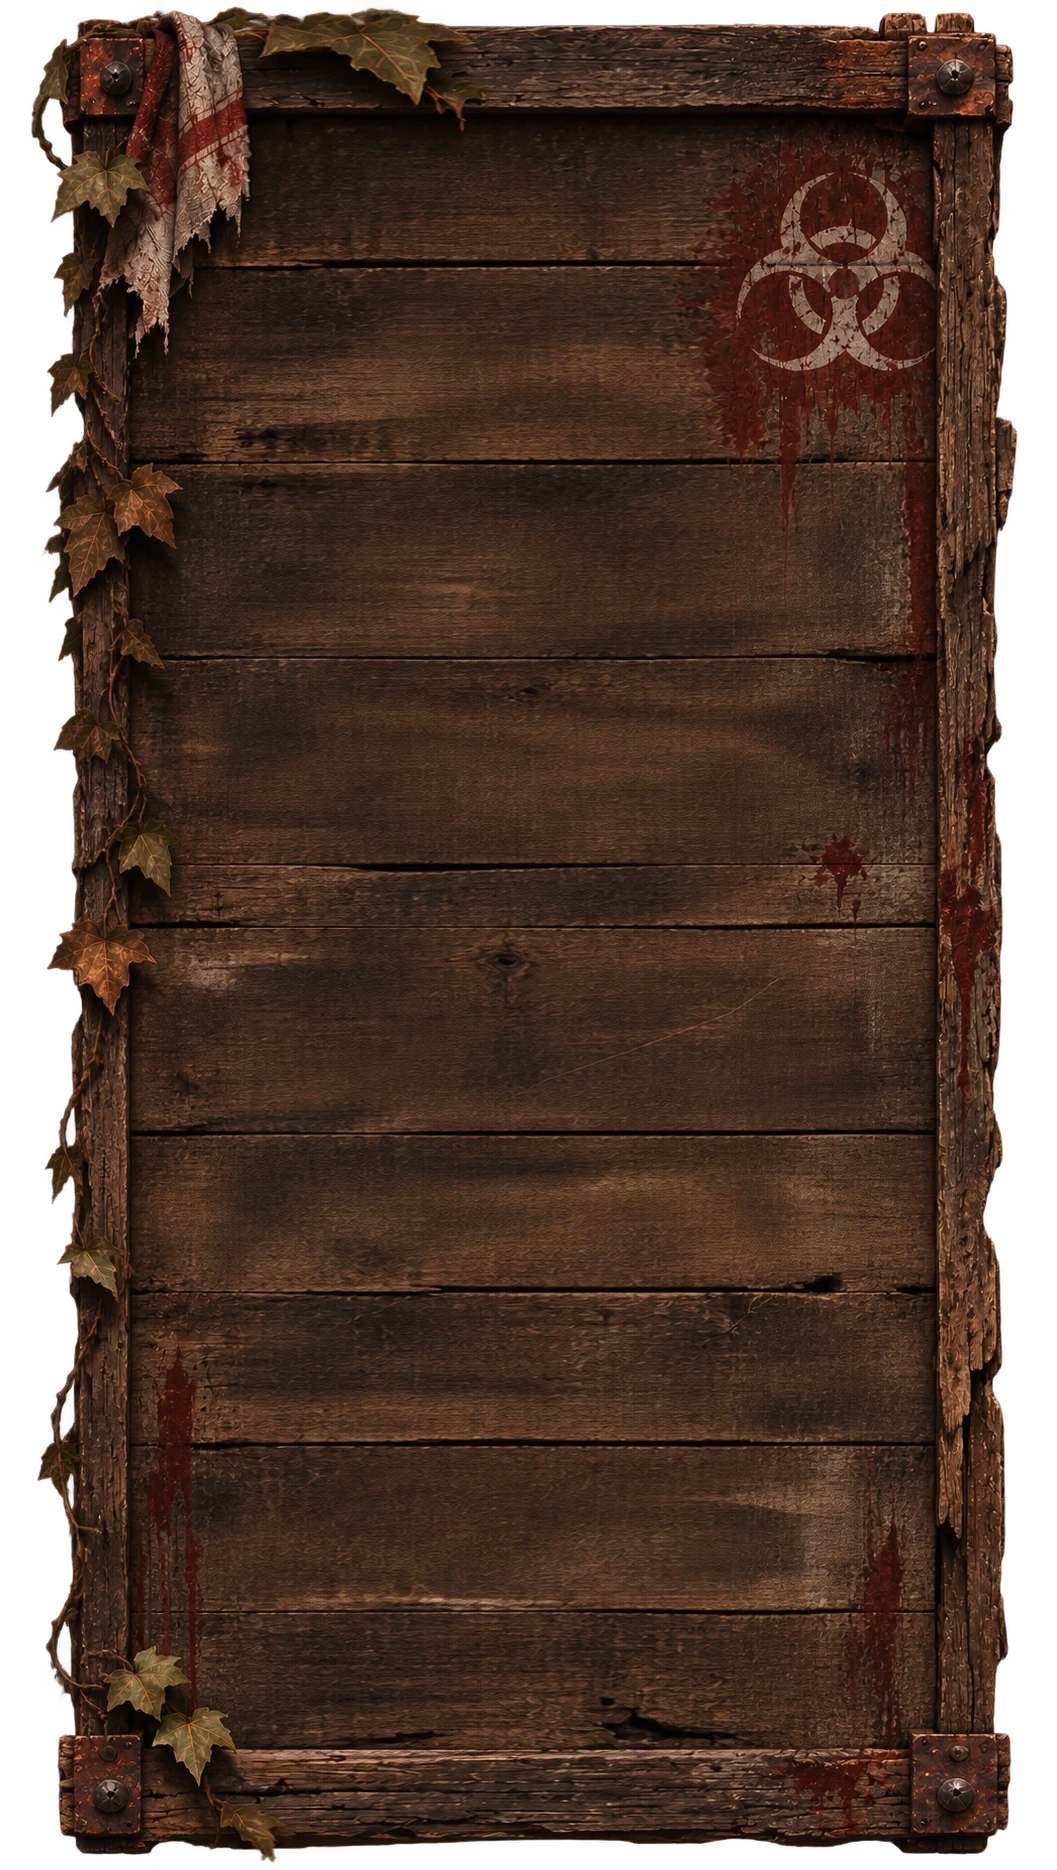
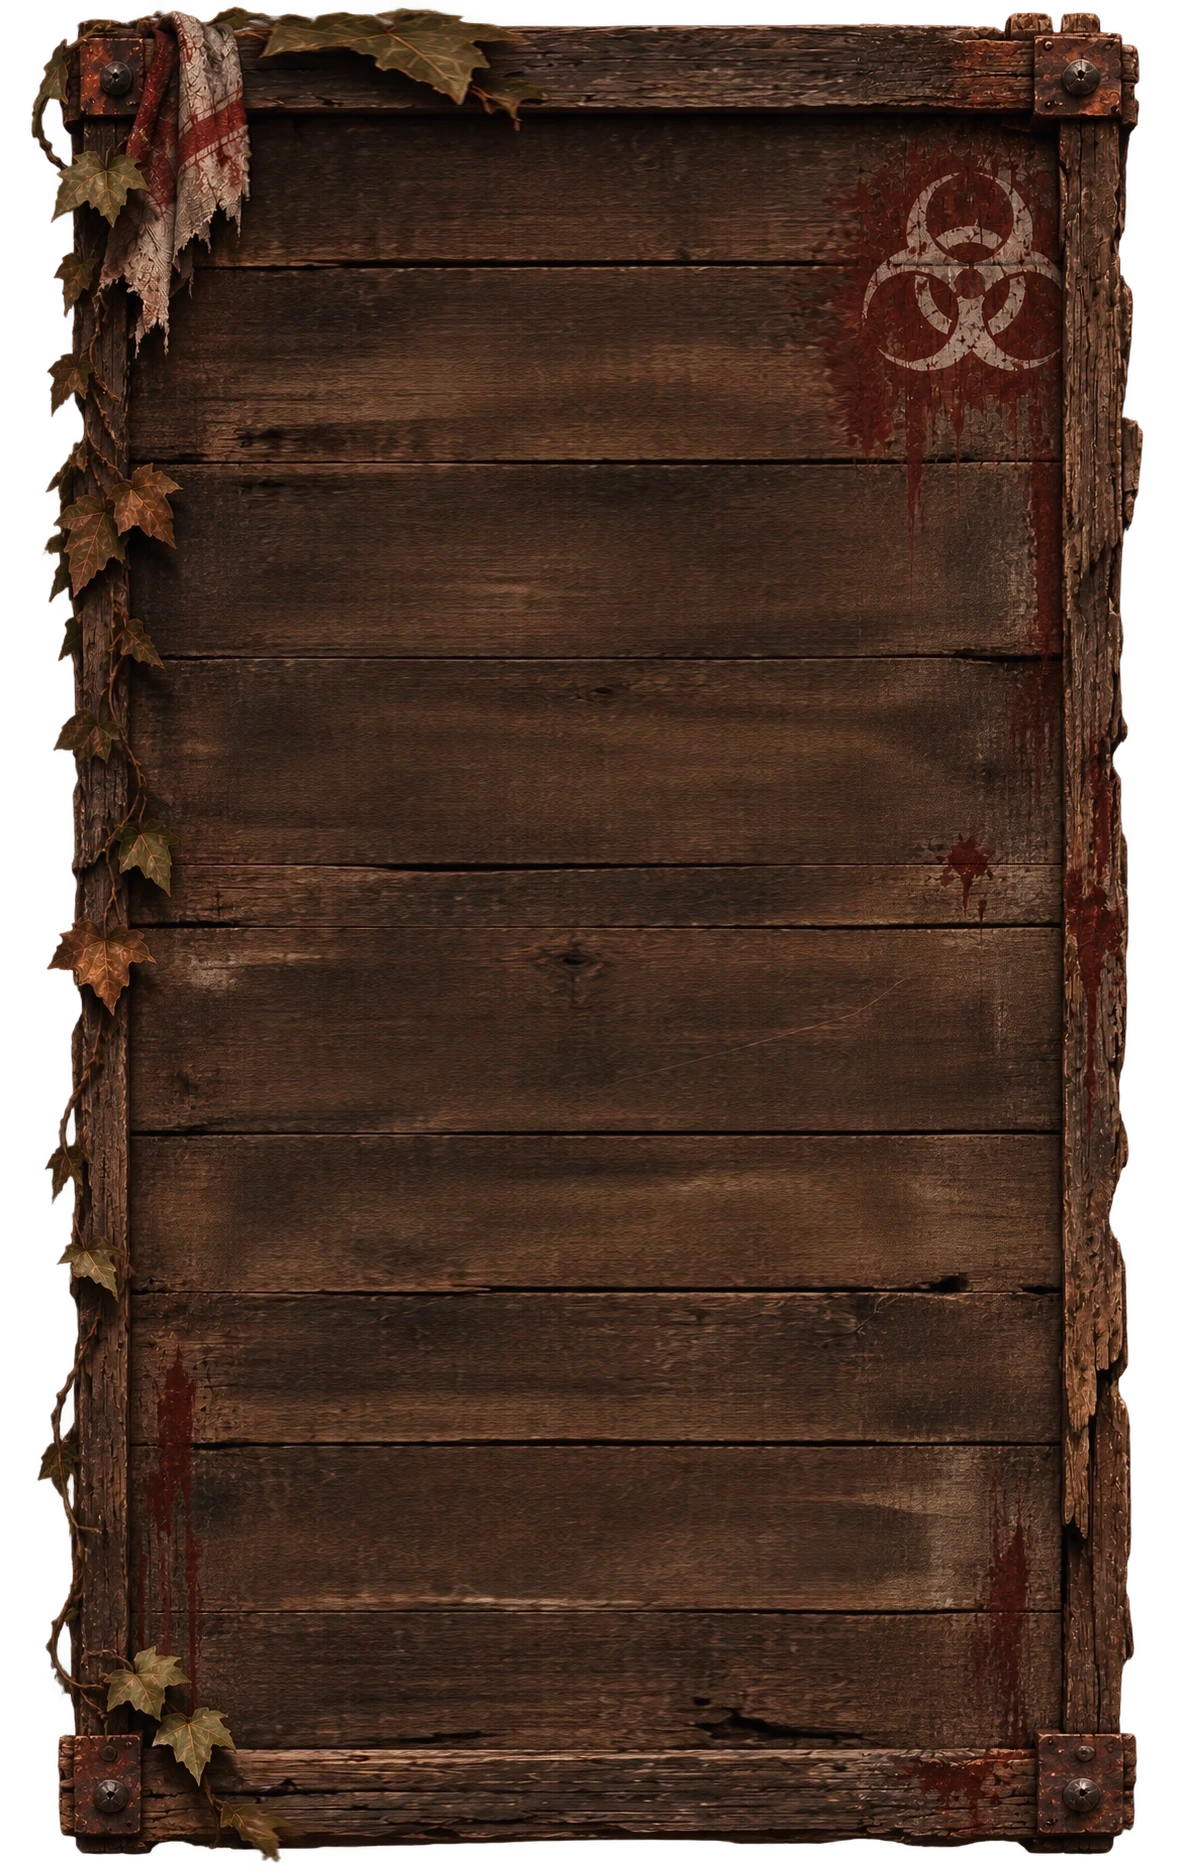
Survival UI v53: widen Hazard Dossier wood interior and gently expand scene-safe left rail

diff --git a/css/survivor-board.css b/css/survivor-board.css
@@ -1,4 +1,4 @@
-/* Survival UI v52 — physically mounted photos on the wide Hazard Dossier.
+/* Survival UI v53 — extended wooden surface, with room for the full Oliver Polaroid.
    Only the wooden-board presentation changes: the original photograph,
    approved paper frame, tape WebP, Oliver's size/tilt and diary JS remain.
    The page grid and main story column are deliberately untouched. */
@@ -20,7 +20,7 @@
   min-height:0;
   margin:0 calc(-1 * var(--wood-overhang)) clamp(10px,1.8vh,23px);
   padding:14px 0 22px;
-  background:transparent url("../assets/ui/boards/wooden_board_02_hazard_dossier.webp?v=survival-ui-51")
+  background:transparent url("../assets/ui/boards/wooden_board_02_hazard_dossier.webp?v=survival-ui-53")
     center center / 100% 100% no-repeat;
 }
 #game-shell .hero-sidebar > .survivor-board > .hero-card,
@@ -254,5 +254,15 @@
     padding:4px 0 7px;
     margin-bottom:7px;
     gap:2px;
+  }
+}
+
+/* Increase the physical space for the dossier, not just the image scale.
+   Only the desktop left rail expands; scene and dialogue move to the right
+   by the same amount and retain their flexible remaining width.
+   The sidebar stays anchored at its existing left edge, mobile unchanged. */
+@media(min-width:1091px) {
+  #game-shell > .game-layout {
+    grid-template-columns:clamp(278px,calc(28vw - 88px),392px) minmax(0,1fr);
   }
 }

diff --git a/index.html b/index.html
@@ -21,7 +21,7 @@
   <link rel="stylesheet" href="css/polaroid-player.css?v=survival-ui-45">
   <link rel="stylesheet" href="css/companions-polaroids.css?v=survival-ui-48">
   <link rel="stylesheet" href="css/background-accents.css?v=survival-ui-47">
-  <link rel="stylesheet" href="css/survivor-board.css?v=survival-ui-52">
+  <link rel="stylesheet" href="css/survivor-board.css?v=survival-ui-53">
 </head>
 <body>
 <div class="game-shell" id="game-shell">

diff --git a/assets/ui/boards/README.md b/assets/ui/boards/README.md
@@ -1,4 +1,4 @@
-# Wooden Survivor Boards — clean/tall set (v51)
+# Wooden Survivor Boards — clean/tall set (v53)
 
 The **straight board (01) has been deleted from the current branch**.
 The three remaining WebP assets have been regenerated as tall, empty
@@ -7,7 +7,7 @@ tape, text labels, or reserved Polaroid positions.
 
 | Asset | Status | Image dimensions |
 | --- | --- | --- |
-| `wooden_board_02_hazard_dossier.webp` | **Active**, widened clean Hazard Dossier with distressed hazard symbol and ivy | 1057 × 1870 |
+| `wooden_board_02_hazard_dossier.webp` | **Active**, extra-wide clean Hazard Dossier with original rails and markings | 1183 × 1870 |
 | `wooden_board_03_worn_wood.webp` | Clean alternative wooden surface | 879 × 1790 |
 | `wooden_board_04_survivor_polaroids.webp` | Clean alternative wooden surface | 916 × 1717 |
 
@@ -22,3 +22,7 @@ The board is styled by `css/survivor-board.css`. The surrounding sidebar
 and primary game-layout widths are unchanged.
 
 UI v51: the wider Hazard Dossier is the active art. CSS provides inner rail-safe margins and four natural variations of angle for the *existing* NPC Polaroids; Oliver's portrait CSS and animation remain untouched. The old v50 image is replaced in the current branch.\n
+UI v53: the active Hazard Dossier image was expanded on the wooden interior,
+leaving the rusted rails and corners unchanged. The desktop grid gives the
+left dossier up to 392px, shifting the scene right as requested without overlap.
+Oliver's paper portrait, tape, angle, animation and NPC roster are unchanged.
